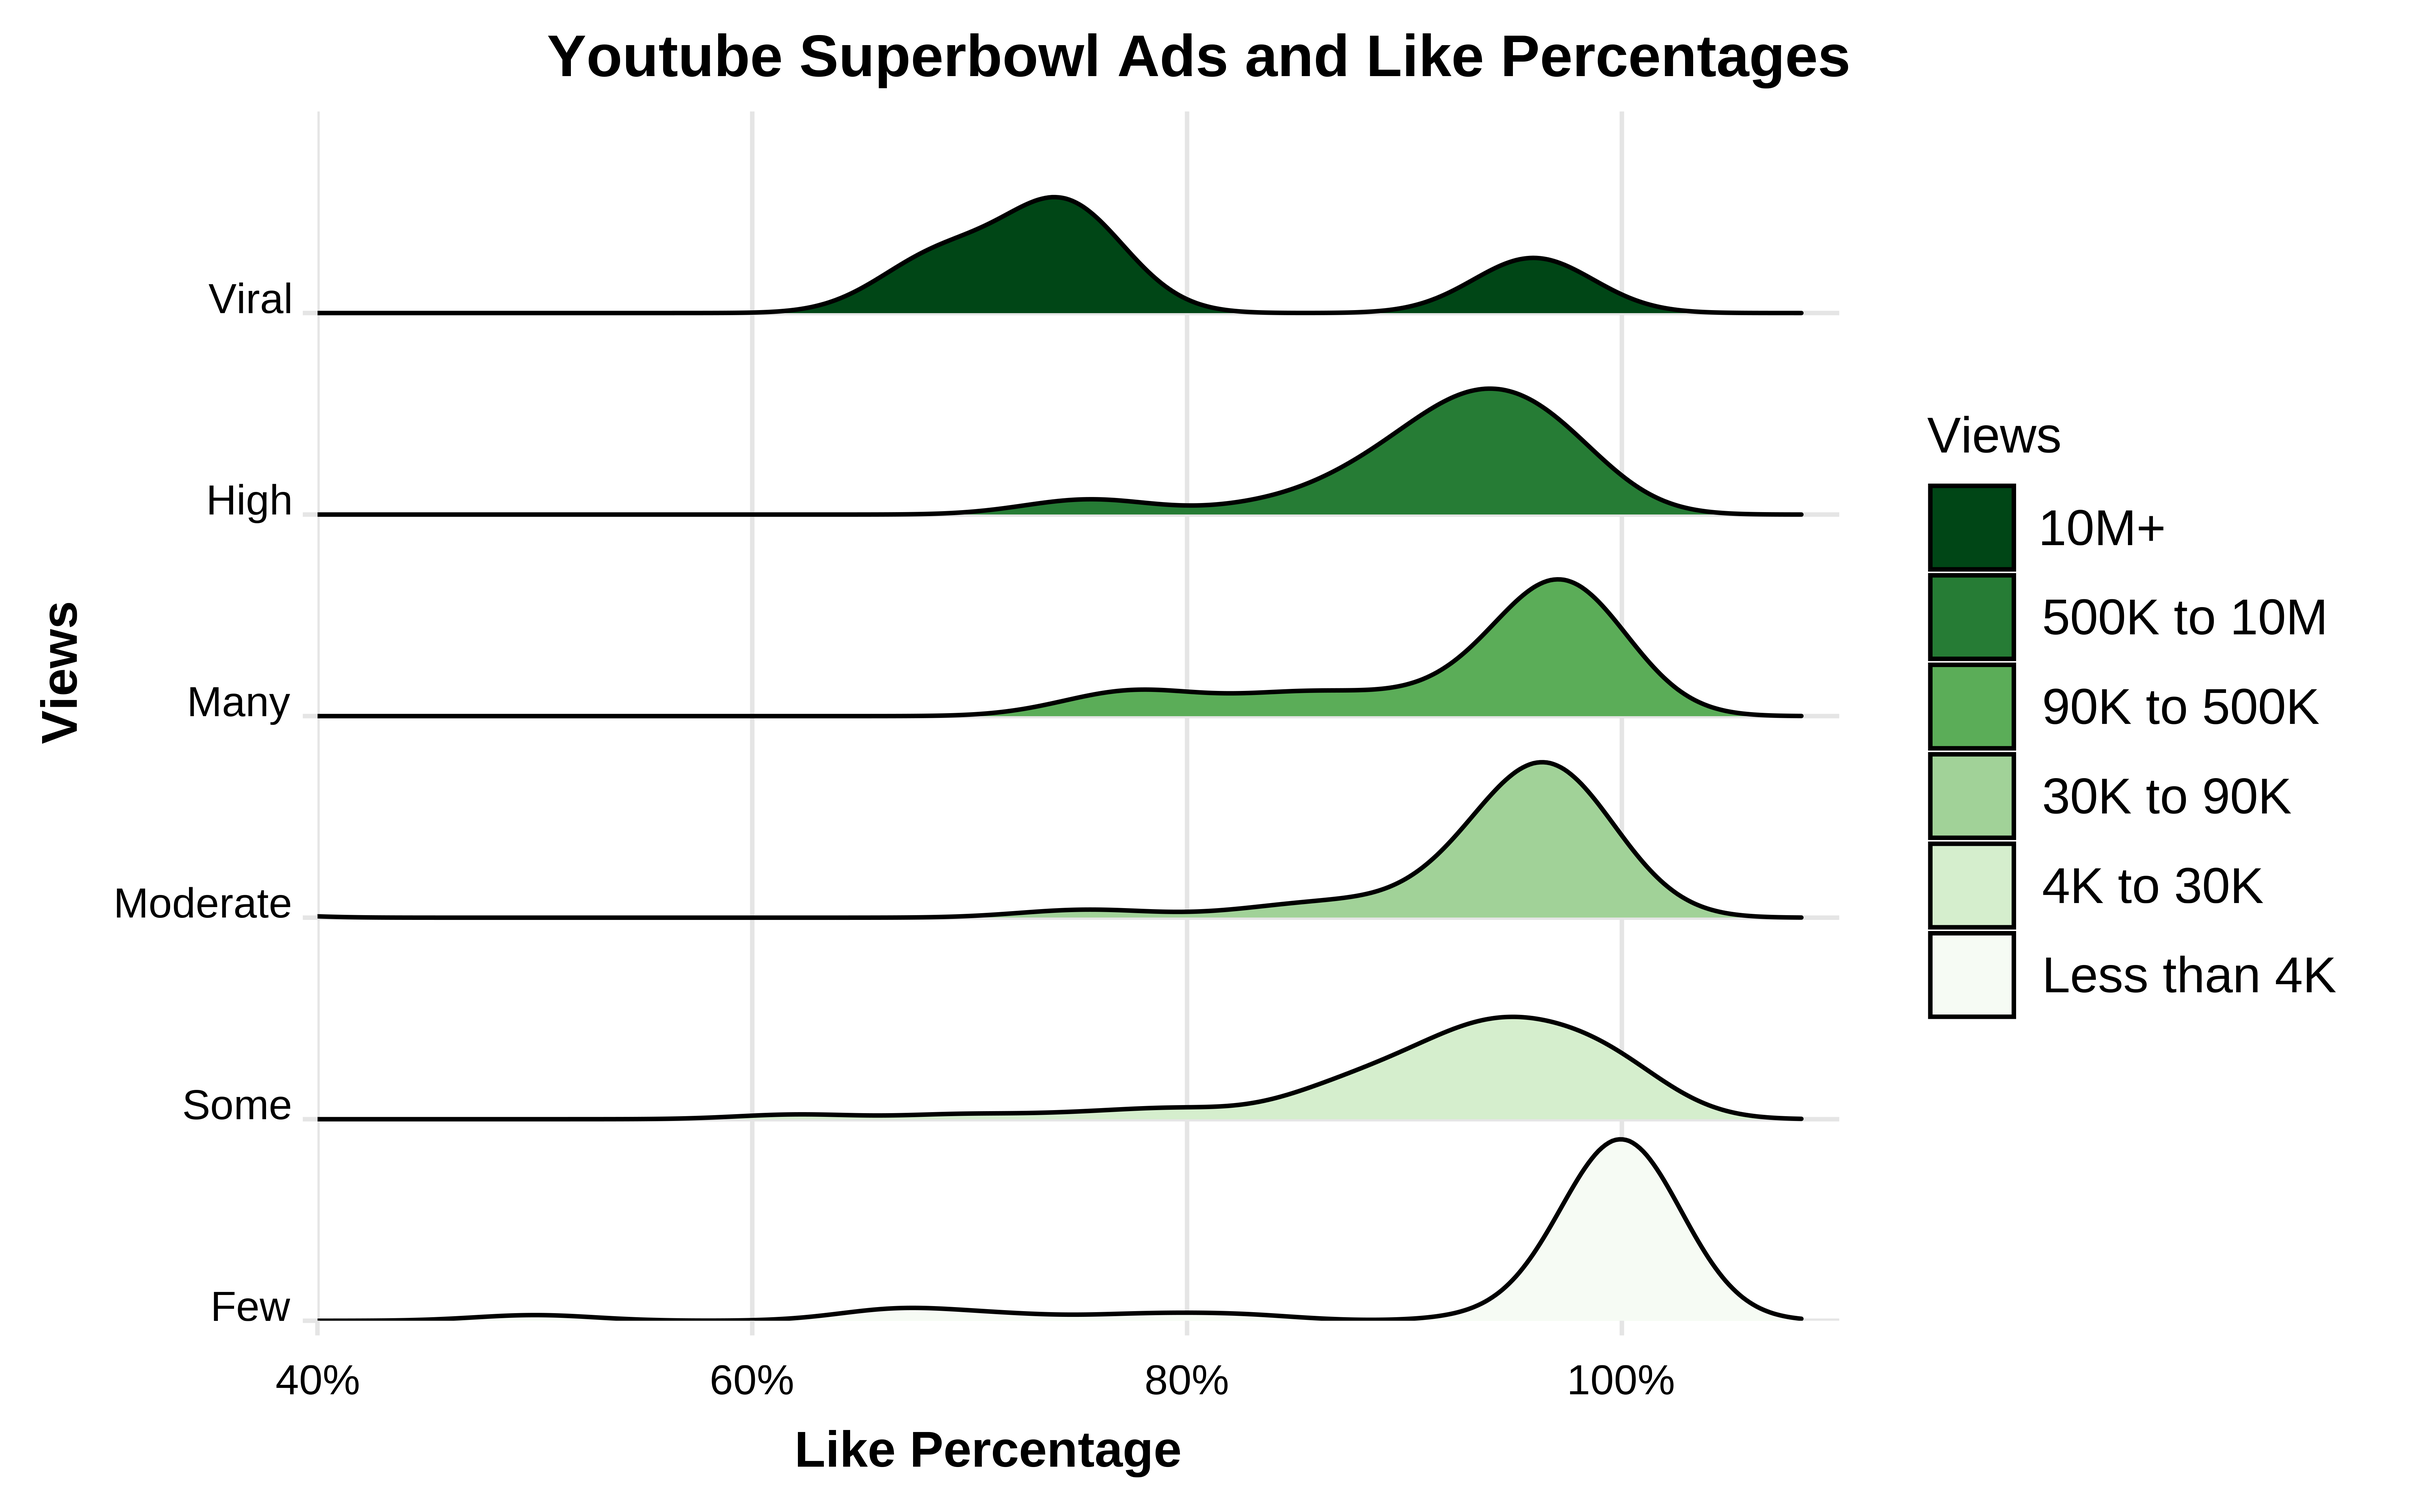
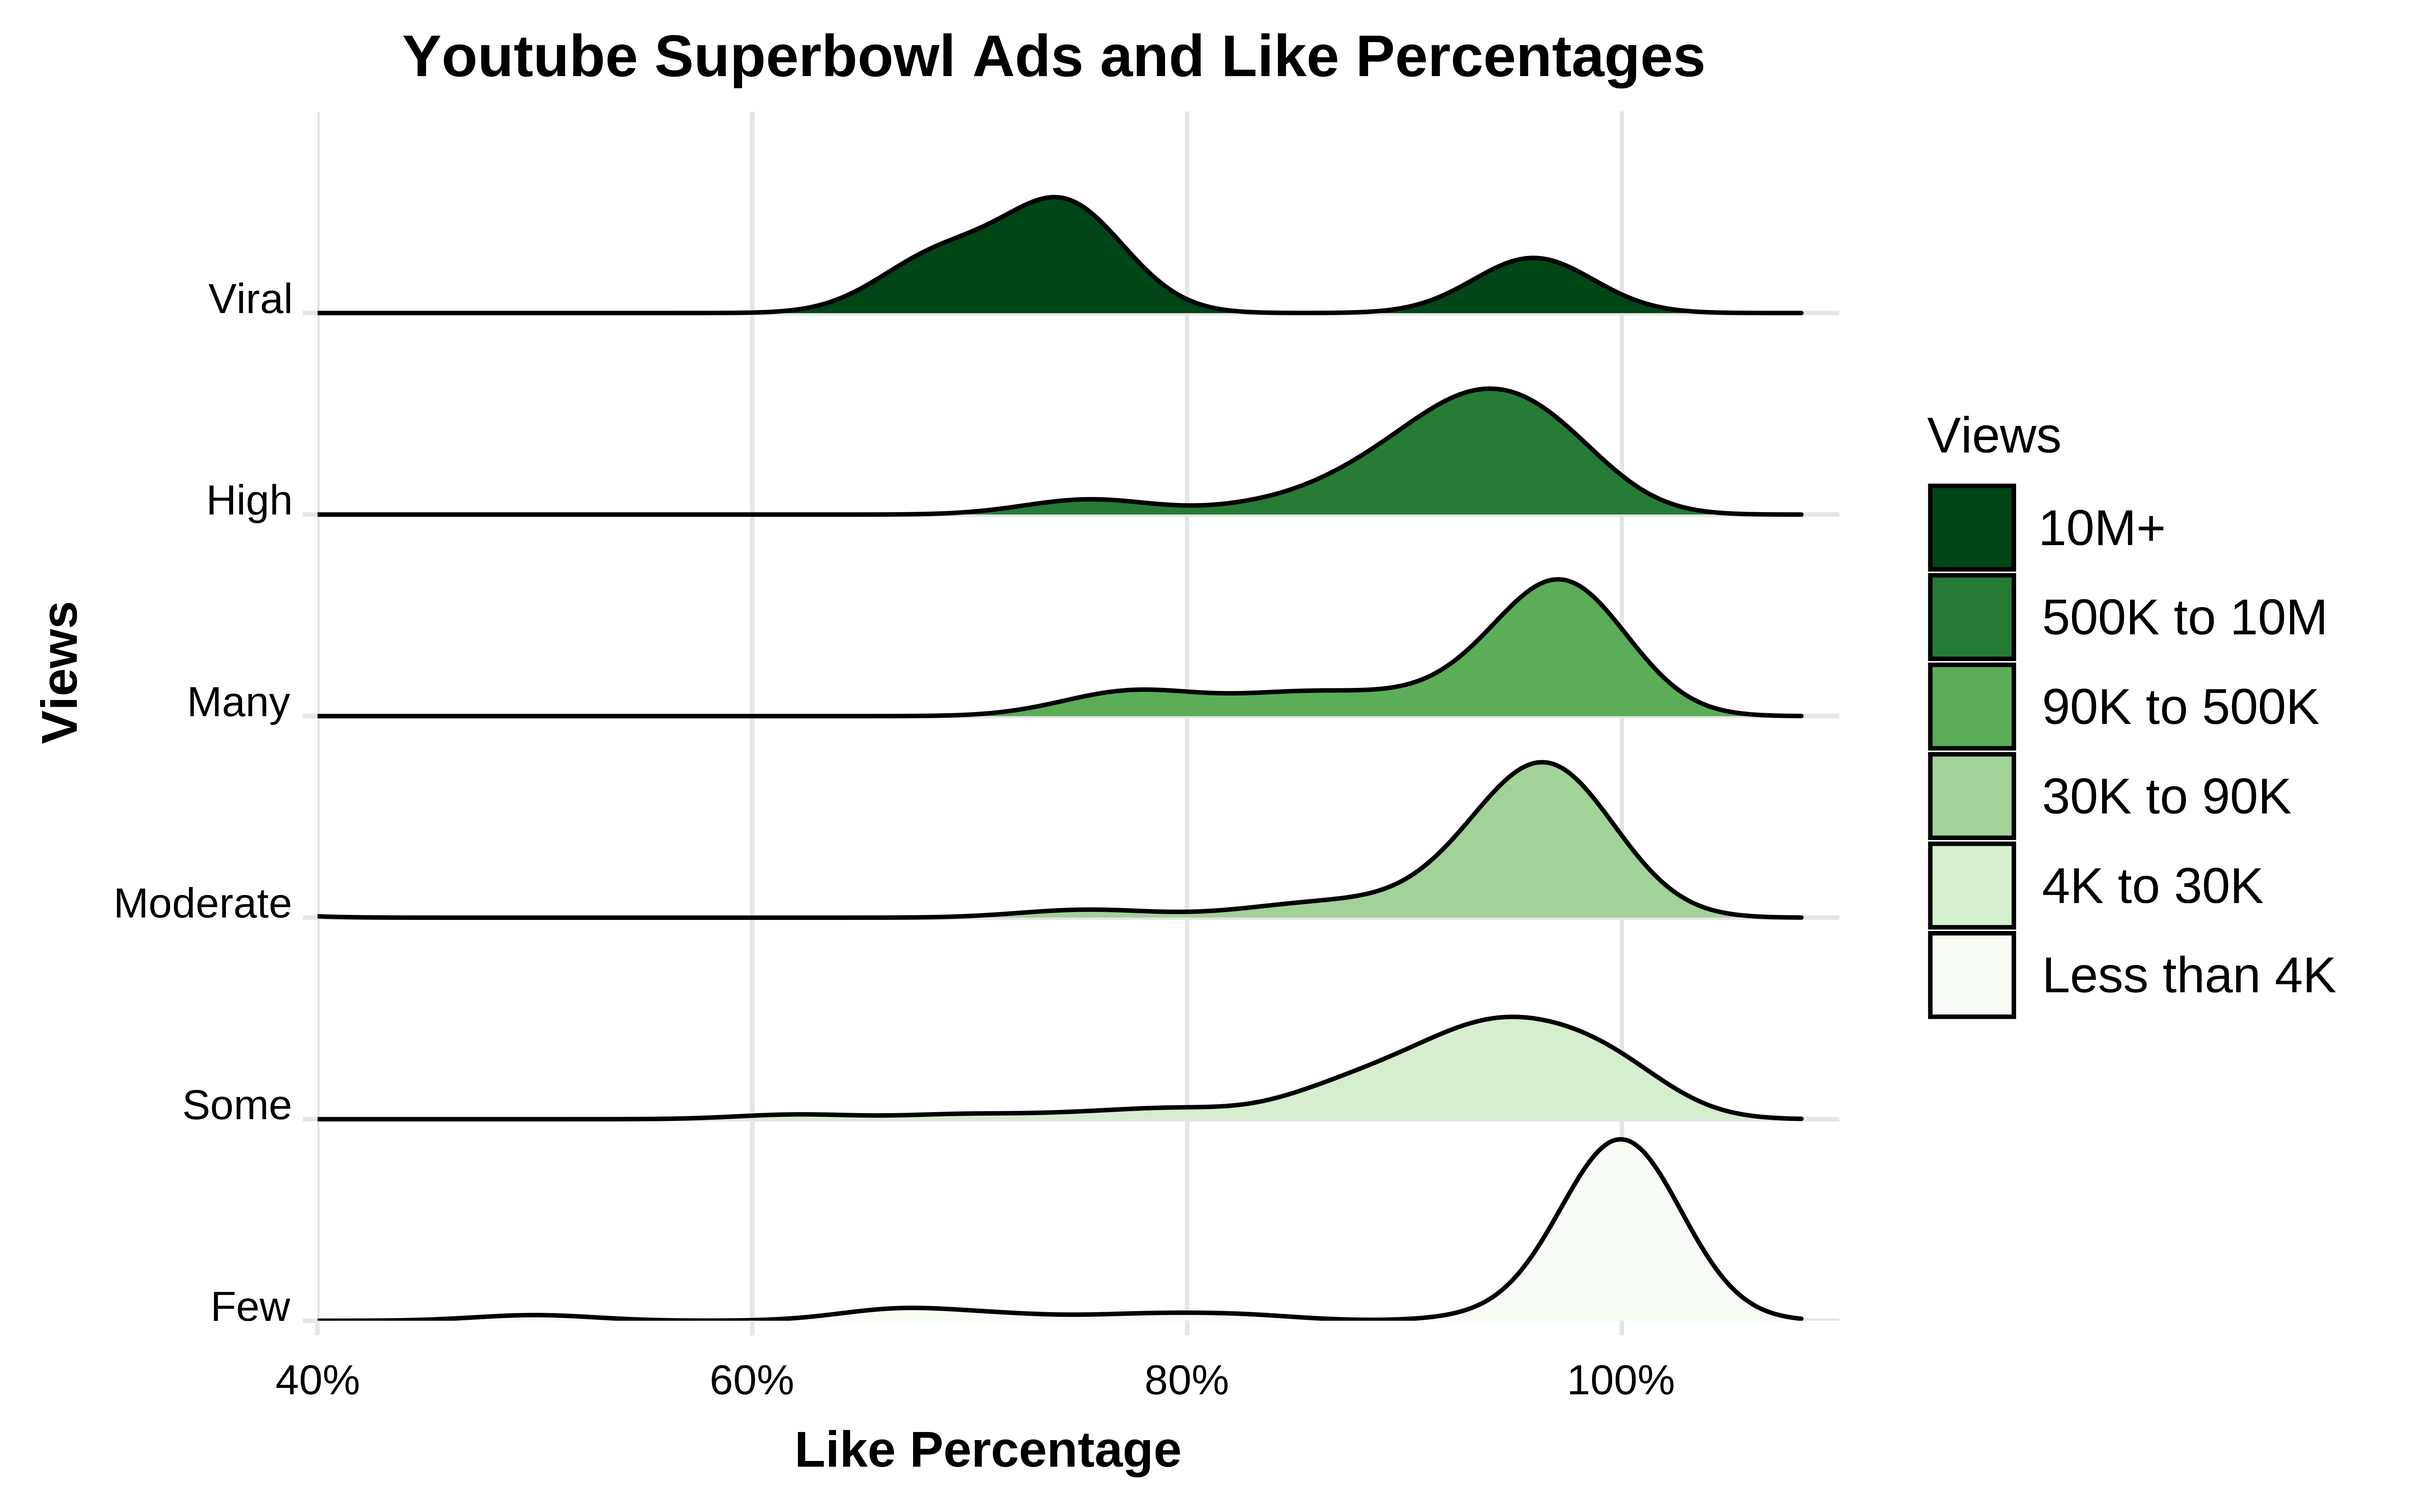
we're done let's gooo

Changed region(s): [[0.1562, 0.0, 0.7812, 0.0625]]

diff --git a/README.md b/README.md
@@ -404,7 +404,7 @@ superbowl %>%
     theme_ridges() +
     theme(
       plot.title.position = "plot",
-      plot.title = element_text(face = "bold", size = 14, hjust = 0.5),
+      plot.title = element_text(face = "bold", size = 14, hjust = 0.36),
       legend.key.size = unit(0.75, 'cm'),
       legend.text = element_text(size = 12),
       legend.title = element_text(size = 12),
